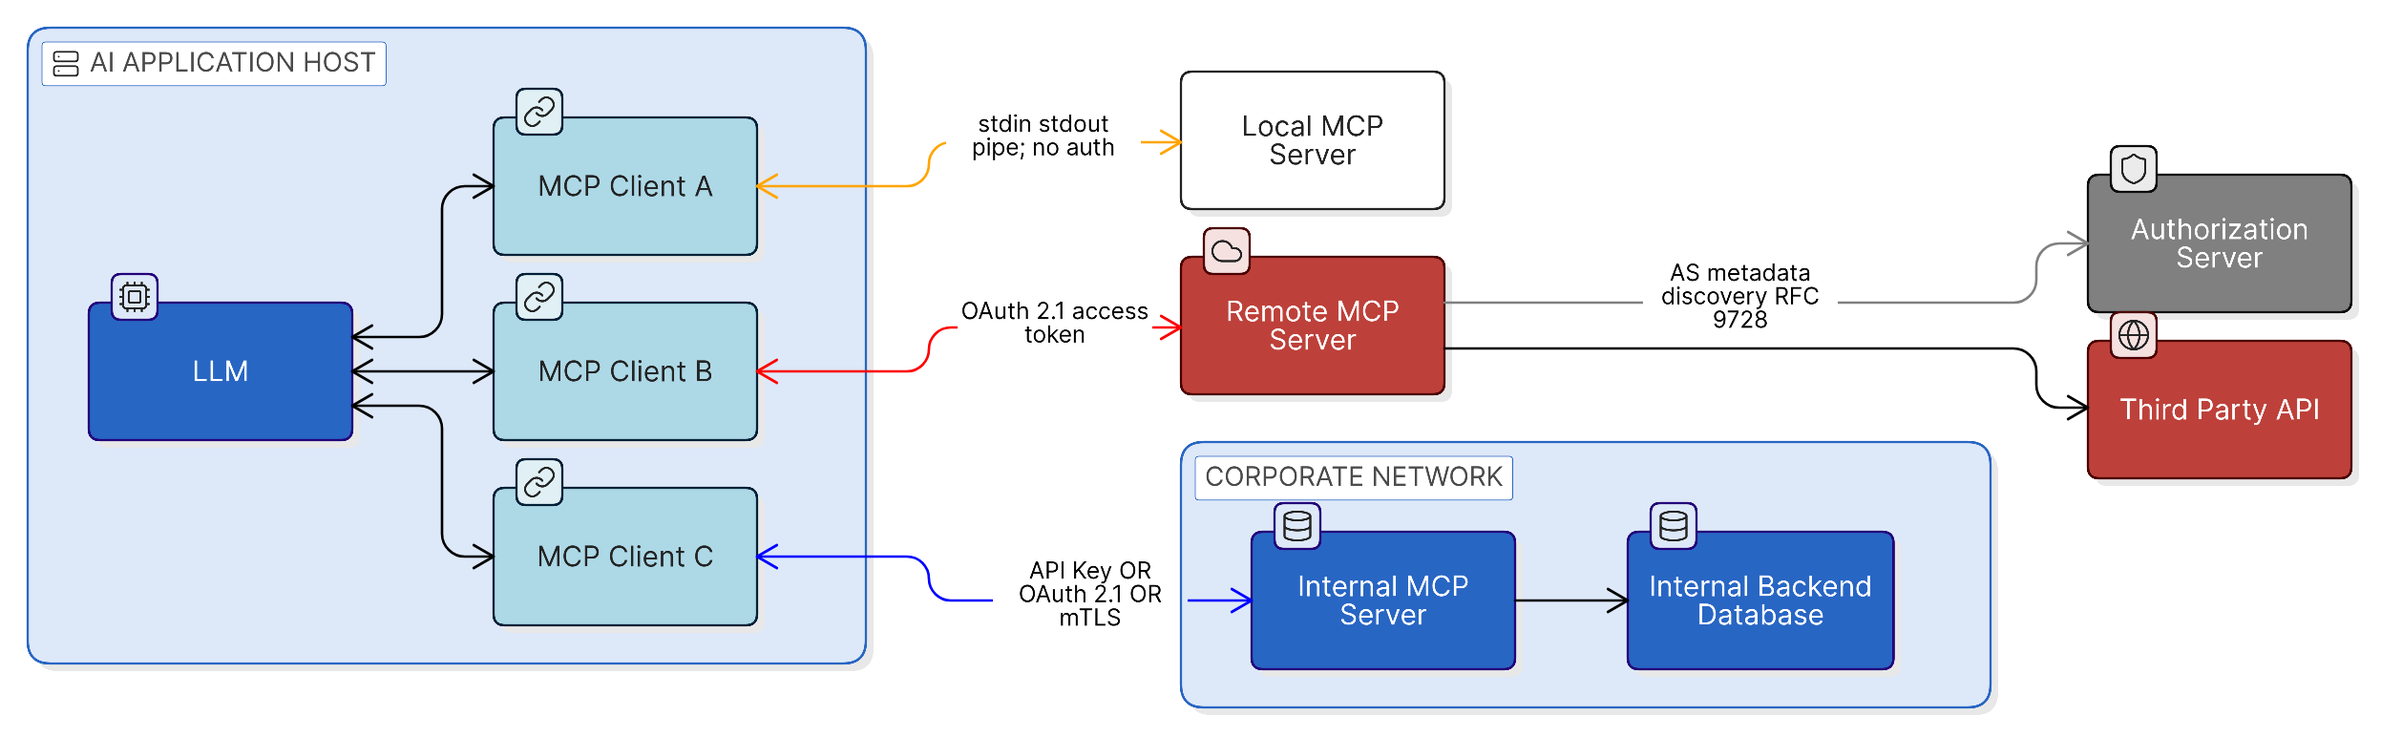
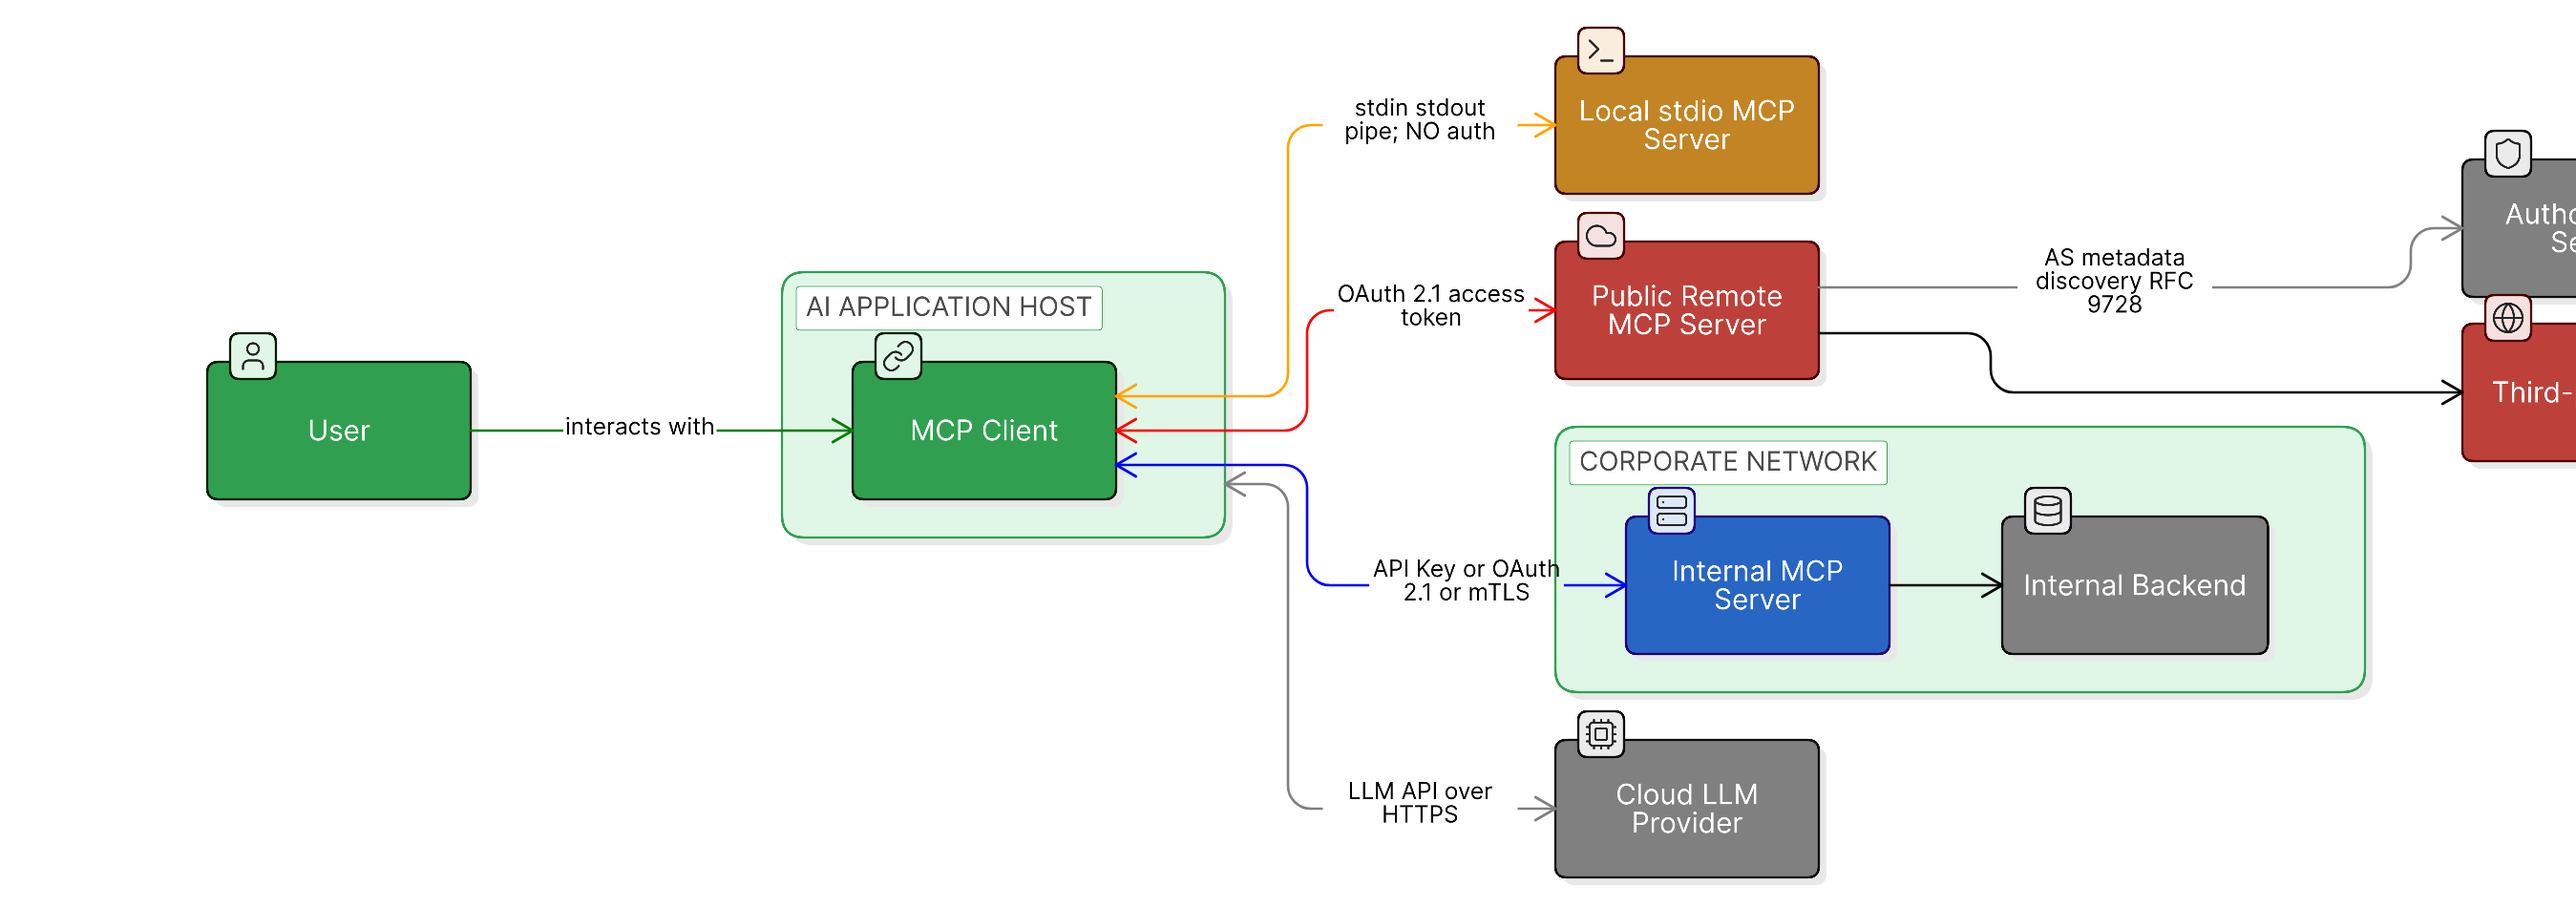
MCP series Part 1: hand-code architecture and trust-boundaries DSL
Switched from mcp__eraser__generate (AI roundtrip) to mcp__eraser__update
with hand-written DSL. The AI generator kept producing layouts that
didn't match the spec the diagrams need to convey.

architecture.png: User -> MCP Client (inside green AI Application Host
on the user's machine) flows left to right. Cloud LLM Provider is
modeled as an external service the Host calls over HTTPS, not as a
component inside the Host. Three MCP server scenarios with their real
auth labels (stdio = no auth, public remote = OAuth 2.1, internal =
API key OR OAuth 2.1 OR mTLS), and the internal server sits inside a
Corporate Network green boundary.

trust-boundaries.png: zones now colored by trust level instead of
all-red. Trusted zones (User, Application) are green, Local Subprocess
is amber, Remote Service is red, Cloud LLM Provider and Upstream API
are grey. Six zones total. Arrow colors signal the auth model at each
crossing, and back-arrows from servers and APIs into the MCP Client
mark where retrieved data enters the LLM's reasoning context.

Alt text on both images updated to match.

diff --git a/src/content/blog/mcp-security-server-features/index.md b/src/content/blog/mcp-security-server-features/index.md
@@ -49,7 +49,7 @@ You can't reason about the threat model without a clear picture of what MCP actu
 
 MCP is a client-server protocol. A **client** runs inside an AI application (a chat app, an IDE, a custom agent). A **server** runs as a separate process, either as a subprocess of the client (stdio transport) or as a remote HTTP service (Streamable HTTP transport). One client typically connects to multiple servers simultaneously, and the LLM driving the client sees the union of capabilities across all of them.
 
-![MCP architecture: an AI application host (LLM and three MCP clients) connecting to a local stdio MCP server (no auth, process boundary), a public remote MCP server (OAuth 2.1, third-party), and an internal MCP server inside a Corporate Network boundary (auth via API key, OAuth 2.1, or mTLS); each remote server connects to its own backend or third-party API](./diagrams/architecture.png)
+![MCP architecture (left to right): a User interacts with the MCP Client inside the AI Application Host (trusted green zone on the user's machine). The Host calls a Cloud LLM Provider over HTTPS as a separate external service. The MCP Client maintains three concurrent connections — a local stdio subprocess (no auth, process boundary), a public remote MCP server using OAuth 2.1 (third-party, with its own Authorization Server and downstream API), and an internal enterprise MCP server inside a Corporate Network boundary using API key or OAuth 2.1 or mTLS](./diagrams/architecture.png)
 
 Two architectural facts matter for security:
 
@@ -74,7 +74,7 @@ The three primitives differ in **who controls invocation**: tools are model-cont
 
 A useful mental model is to draw the trust boundaries explicitly. Every interaction between trust zones is a place where a check must happen.
 
-![MCP trust boundaries: five zones each enclosed in a red boundary box (User Trust Zone, Application Trust Zone, Local Subprocess Zone, Remote Service Zone, Upstream API Zone), with arrows colored by auth model — green for trusted user input, amber for the no-auth process boundary to stdio servers, red for OAuth/API-key/mTLS to HTTPS servers, and dashed amber arrows showing retrieved data flowing back into the LLM's reasoning context as a trust boundary](./diagrams/trust-boundaries.png)
+![MCP trust boundaries: six zones colored by trust level. User Trust Zone and Application Trust Zone (containing the AI Application Host and MCP Client) are green for trusted. Local Subprocess Zone is amber for shared-privilege warning. Remote Service Zone is red for untrusted third-party. Cloud LLM Provider Zone and Upstream API Zone are grey. Arrows are colored by auth model — green for trusted user input, amber for the no-auth process boundary to stdio servers, red for OAuth or API key or mTLS to HTTPS servers, grey for the LLM API call. Reverse arrows back into the MCP Client mark where retrieved data enters the LLM's reasoning context](./diagrams/trust-boundaries.png)
 
 The boundaries that matter:
 
